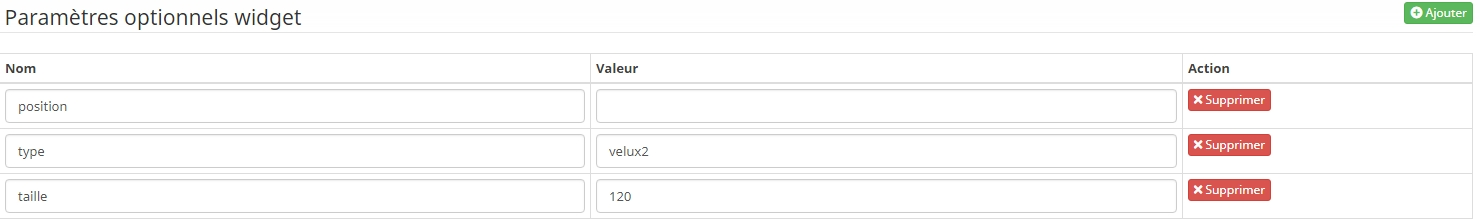
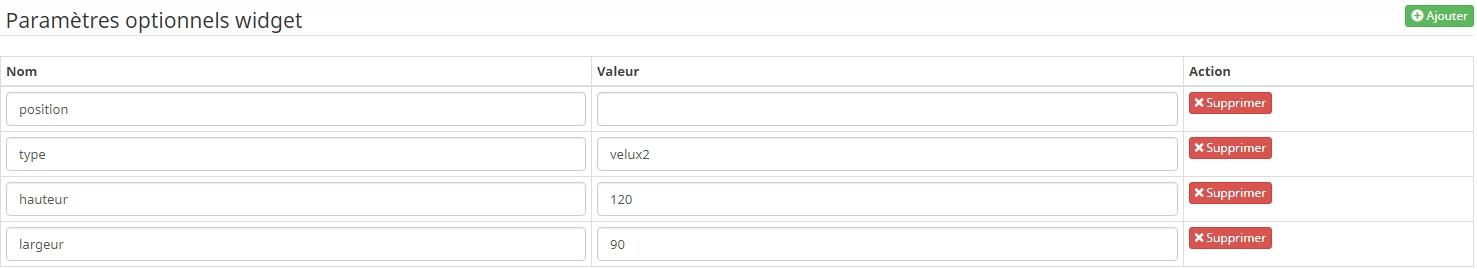
bug fix + new parameters

Changed region(s): [[0.0, 0.2192, 1.0, 1.0], [0.0, 0.0548, 0.9966, 0.1644], [0.9343, 0.0, 1.0, 0.1096]]

diff --git a/README.md b/README.md
@@ -8,10 +8,11 @@ Le widget inclus d'office 17 types d'ouvrants différents dont 9 séries de vole
 
 Pour choisir le type de visuel à afficher, il faut ajouter un paramètre optionnel '<i><b>type</b></i>' avec pour valeur le nom de la série à afficher (par exemple: '<i>velux2</i>'). Par défaut c'est le visuel '<i>volet1</i>' qui s'affiche. 
 La liste des différents ouvrants disponibles est inscrite au début du code:
-<blockquote>!-- volet1 // volet2 // volet3 // volet4 // volet5 // volet6// volet7 // volet 8 // volet9 // velux1 // velux2 // velux3 // rideau1 // rideau2 // store1 // portail1 // garage1 -->></blockquote>
+<blockquote> <!-- volet1 // volet2 // volet3 // volet4 // volet5 // volet6// volet7 // volet 8 // volet9 // velux1 // velux2 // velux3 // rideau1 // rideau2 // store1 // portail1 // garage1 --> </blockquote>
 
 Pour afficher le pourcentage d'ouverture sous l'icône de l'ouvrant, il faut ajouter un paramètre ayant pour nom: '<i><b>position</b></i>' <b>sans valeur</b> (champ vide).
 
-Il est également possible de spécifier la taille des icônes par l'ajout d'un paramètre optionnel "<i><b>taille</b></i>" ayant pour valeur la dimension souhaitée (par exemple: taille:120 = icône de 120px*120px). Par défaut les icônes font 95px*95px.
+Il est également possible de spécifier la hauteur et la largeur des icônes par l'ajout de paramètres optionnels "<i><b>hauteur</b></i>" & "<i><b>largeur</b></i>" ayant pour valeur la dimension souhaitée (par exemple: hauteur=120/largeur=90 -> icône de 120px*90px).
+Par défaut les icônes font 95px*95px.
 
 <img src="/doc/params.jpg" alt="parametres"/>
